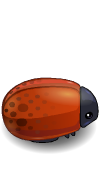
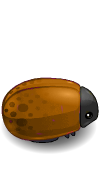
Add new imgs for alt Enemies. Add two Enemy subclasses to App.js.

diff --git a/js/app.js b/js/app.js
@@ -22,6 +22,22 @@ Enemy.prototype.update = function(dt) {
     }
 }
 
+function evilerEnemy(x,y,speed) {
+    Enemy.call(this, x, y, speed);
+    this.sprite = 'images/enemy-bug2.png';
+}
+
+evilerEnemy.prototype = Object.create(Enemy.prototype);
+evilerEnemy.prototype.constructor = evilerEnemy;
+
+function evilestEnemy(x,y,speed) {
+    Enemy.call(this, x, y, speed);
+    this.sprite = 'images/enemy-bug3.png';
+}
+
+evilestEnemy.prototype = Object.create(Enemy.prototype);
+evilestEnemy.prototype.constructor = evilestEnemy;
+
 function checkCollisions () {
     allEnemies.forEach(function(enemy) {
              if(enemy.leftSide < player.rightSide &&
@@ -102,8 +118,8 @@ Player.prototype.handleInput = function(key) {
 // Place the player object in a variable called player
 
 var allEnemies = [
-    new Enemy(0, 55, 150),
-    new Enemy(0, 140, 250),
+    new evilerEnemy(0, 55, 150),
+    new evilestEnemy(0, 140, 250),
     new Enemy(0, 225, 100)
     ];
 

diff --git a/js/engine.js b/js/engine.js
@@ -172,6 +172,8 @@ var Engine = (function(global) {
         'images/water-block.png',
         'images/grass-block.png',
         'images/enemy-bug.png',
+        'images/enemy-bug2.png',
+        'images/enemy-bug3.png',
         'images/char-boy.png'
     ]);
     Resources.onReady(init);

diff --git a/README.js b/README.js
@@ -1,0 +1,6 @@
+frontend-nanodegree-arcade-game
+===============================
+
+Students should use this rubric: https://www.udacity.com/course/viewer#!/c-ud015/l-3072058665/m-3072588797
+
+for self-checking their submission.
